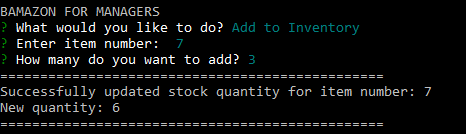
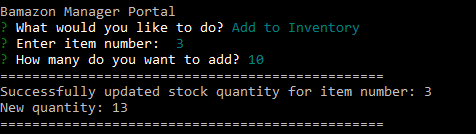
updated manager workflow and screenshots in readme

diff --git a/README.md b/README.md
@@ -181,13 +181,27 @@ MYSQL_PASSWORD='<i>mysql_password</i>'
 
 This file will be used by the dotenv npm package, which will pass the password value as an environment variable to the global process.env object in node. Because .env is specified in the .gitignore file, the MySQL password won't be pushed to GitHub — keeping the password information private.
 
+##  <a name="create-db-connection"></a> Create database connection
+<p>In the bamazonSupervisor.js, bamazonManager.js, and bamazonCustomer.js files, there are database connection properties defined that are used to create a connection to the MySQL database. Update the connection properties to reflect your database instance, as shown in the following example.</p>
+
+<pre>
+//Create connection to mysql database.
+//Read mysql password from the .env file.
+var connection = mysql.createConnection({
+	host: "localhost",
+	port: 3306,
+	user: 'root',
+	password: process.env.MYSQL_PASSWORD,
+	database: 'bamazon'
+});
+</pre>
 
 ## <a name="app-workflow"></a> App workflow
 <p>The application includes three user portals.</p>
 <ul>
-	<li>Supervisor Portal</li>
-	<li>Manager Portal</li>
 	<li>Customer Portal</li>
+	<li>Manager Portal</li>
+	<li>Supervisor Portal</li>
 </ul>
 <p>The following sections describe the user workflow for each of these portals.</p>
 
@@ -225,15 +239,7 @@ This file will be used by the dotenv npm package, which will pass the password v
 <pre>node bamazonManager.js</pre>
 
 <p>When you run this command, you will see a list of menu options.</p>
-<pre>
-BAMAZON MANAGER PORTAL
-? What would you like to do? (Use arrow keys)
-> View Products for Sale
-  View Low Inventory
-  Add to Inventory
-  Add New Product
-  Exit Application
-</pre>
+<img src="readme_images/manager_portal_options.png">
 
 #### View Products for Sale
 <p>When you select <b>View Products for Sale</b> from the menu, you will see a table that lists all of the products for sale along with what department the product belongs to, the price of each product, and the in-stock quantity for each product.</p>
@@ -247,13 +253,16 @@ BAMAZON MANAGER PORTAL
 <p>When you select <b>Add to Inventory</b> from the menu, you will prompted to enter the item number for the product you want to add stock to as well as how much stock.</p>
 <img src="readme_images/add_to_inventory.png">
 <p>The stock quantity for the item number entered at the prompt is updated in the products table in the database.</p>
+<p>If you enter an item number that is not currently associated with any product in the store, you will get an error message that the item was not found. The application will take you back to the manager menu.</p>
+<img src="readme_images/add_inventory_error.png">
 
 #### Add New Product
-<p>When you select <b>Add New Product</b> from the menu, you will be prompted to enter information about the product you want to add to the store. This information is used to run the INSERT INT0 MySQL statement to add the product to the products table in the database.</p>
+<p>When you select <b>Add New Product</b> from the menu, you will be prompted to enter information about the product you want to add to the store. This information is used to run the INSERT INTO MySQL statement to add the product to the products table in the database.</p>
 <img src="readme_images/add_new_product.png">
 
 #### Exit Application
-To exit the Manager Portal, select <b>Exit Application</b> from the menu.
+<p>To exit the Manager Portal, select <b>Exit Manager Portal</b> from the menu.</p>
+<img src="readme_images/exit_manager_portal.png">
 
 ### <a name="supervisor-workflow"> Supervisor workflow
 <p> In the Supervisor Portal, a store supervisor can create a new department and view product sales by department.</p>
